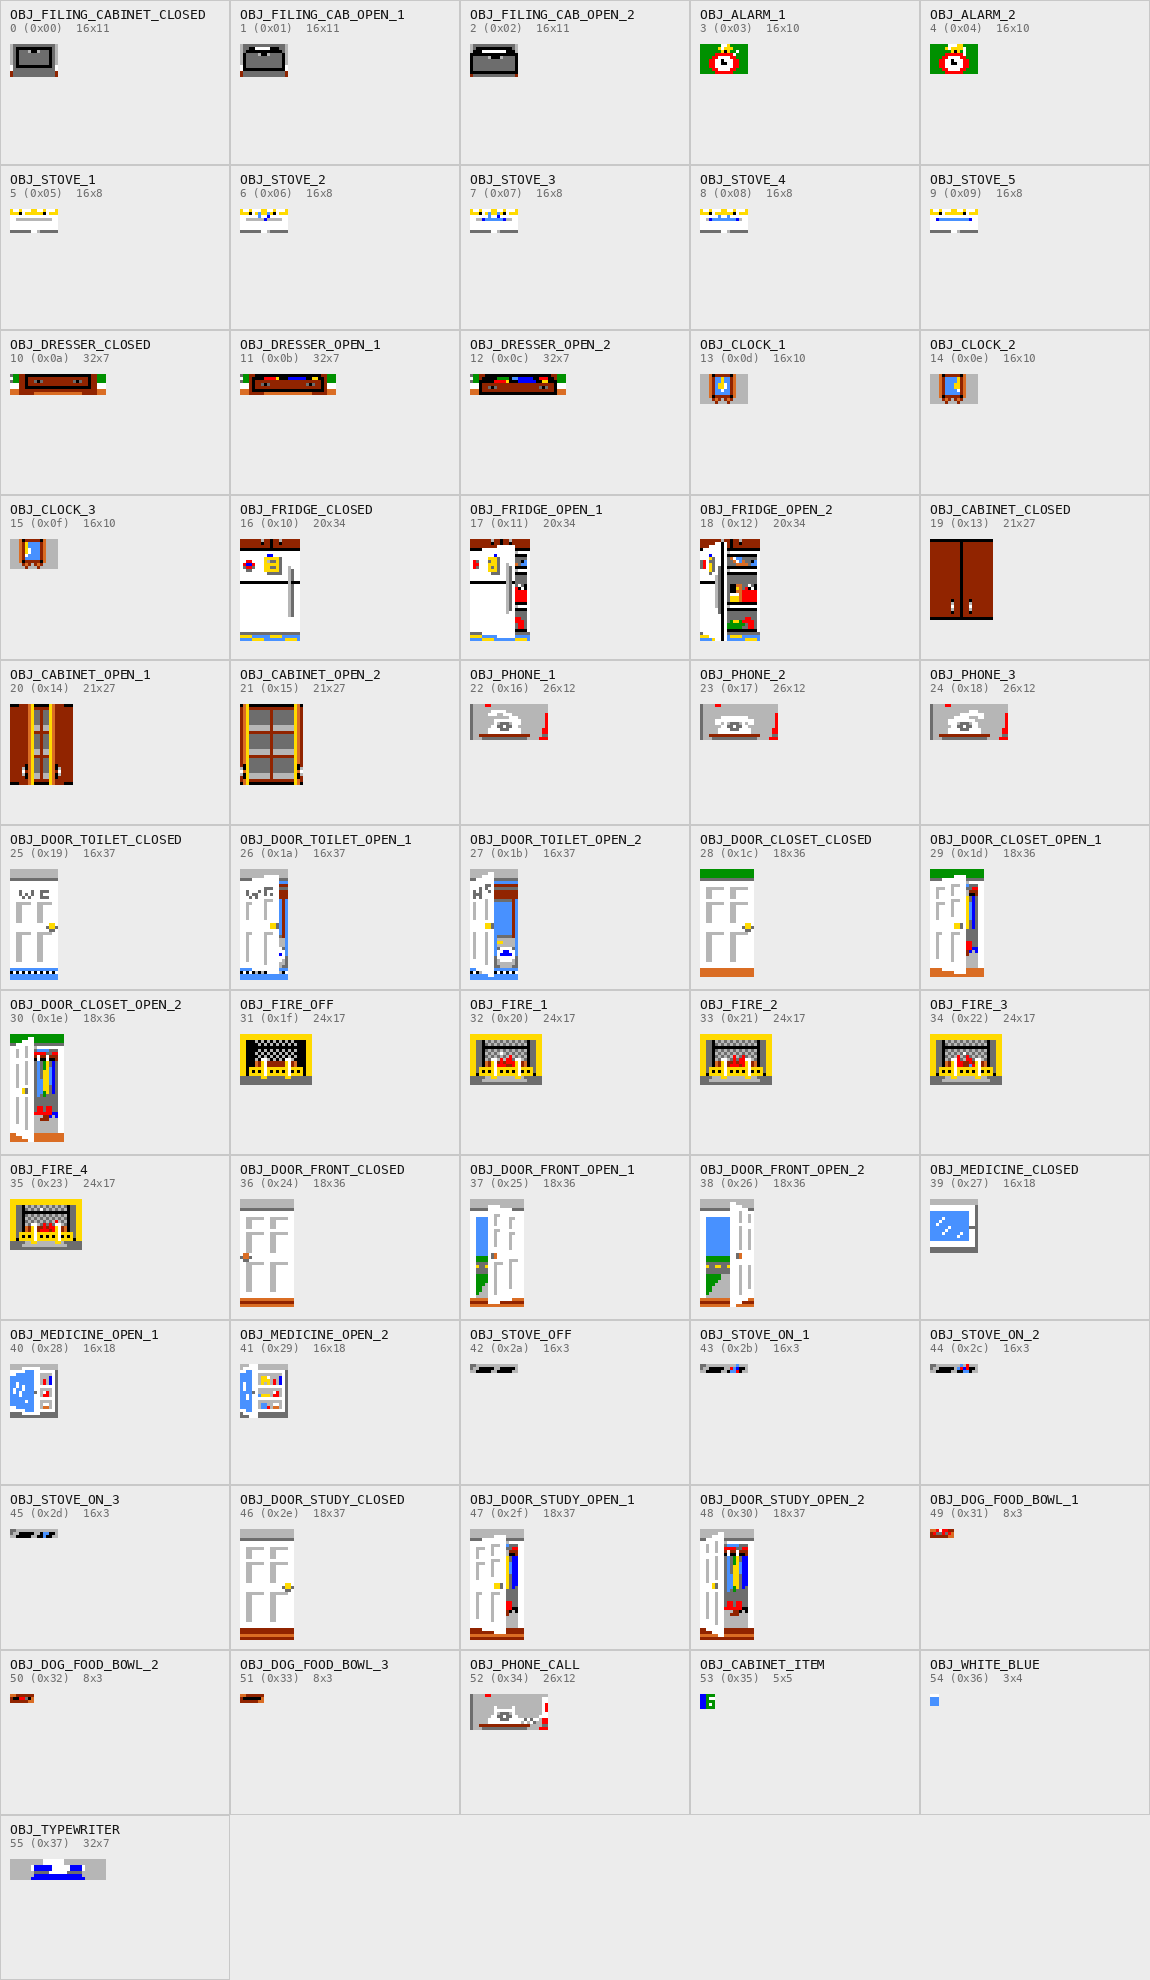
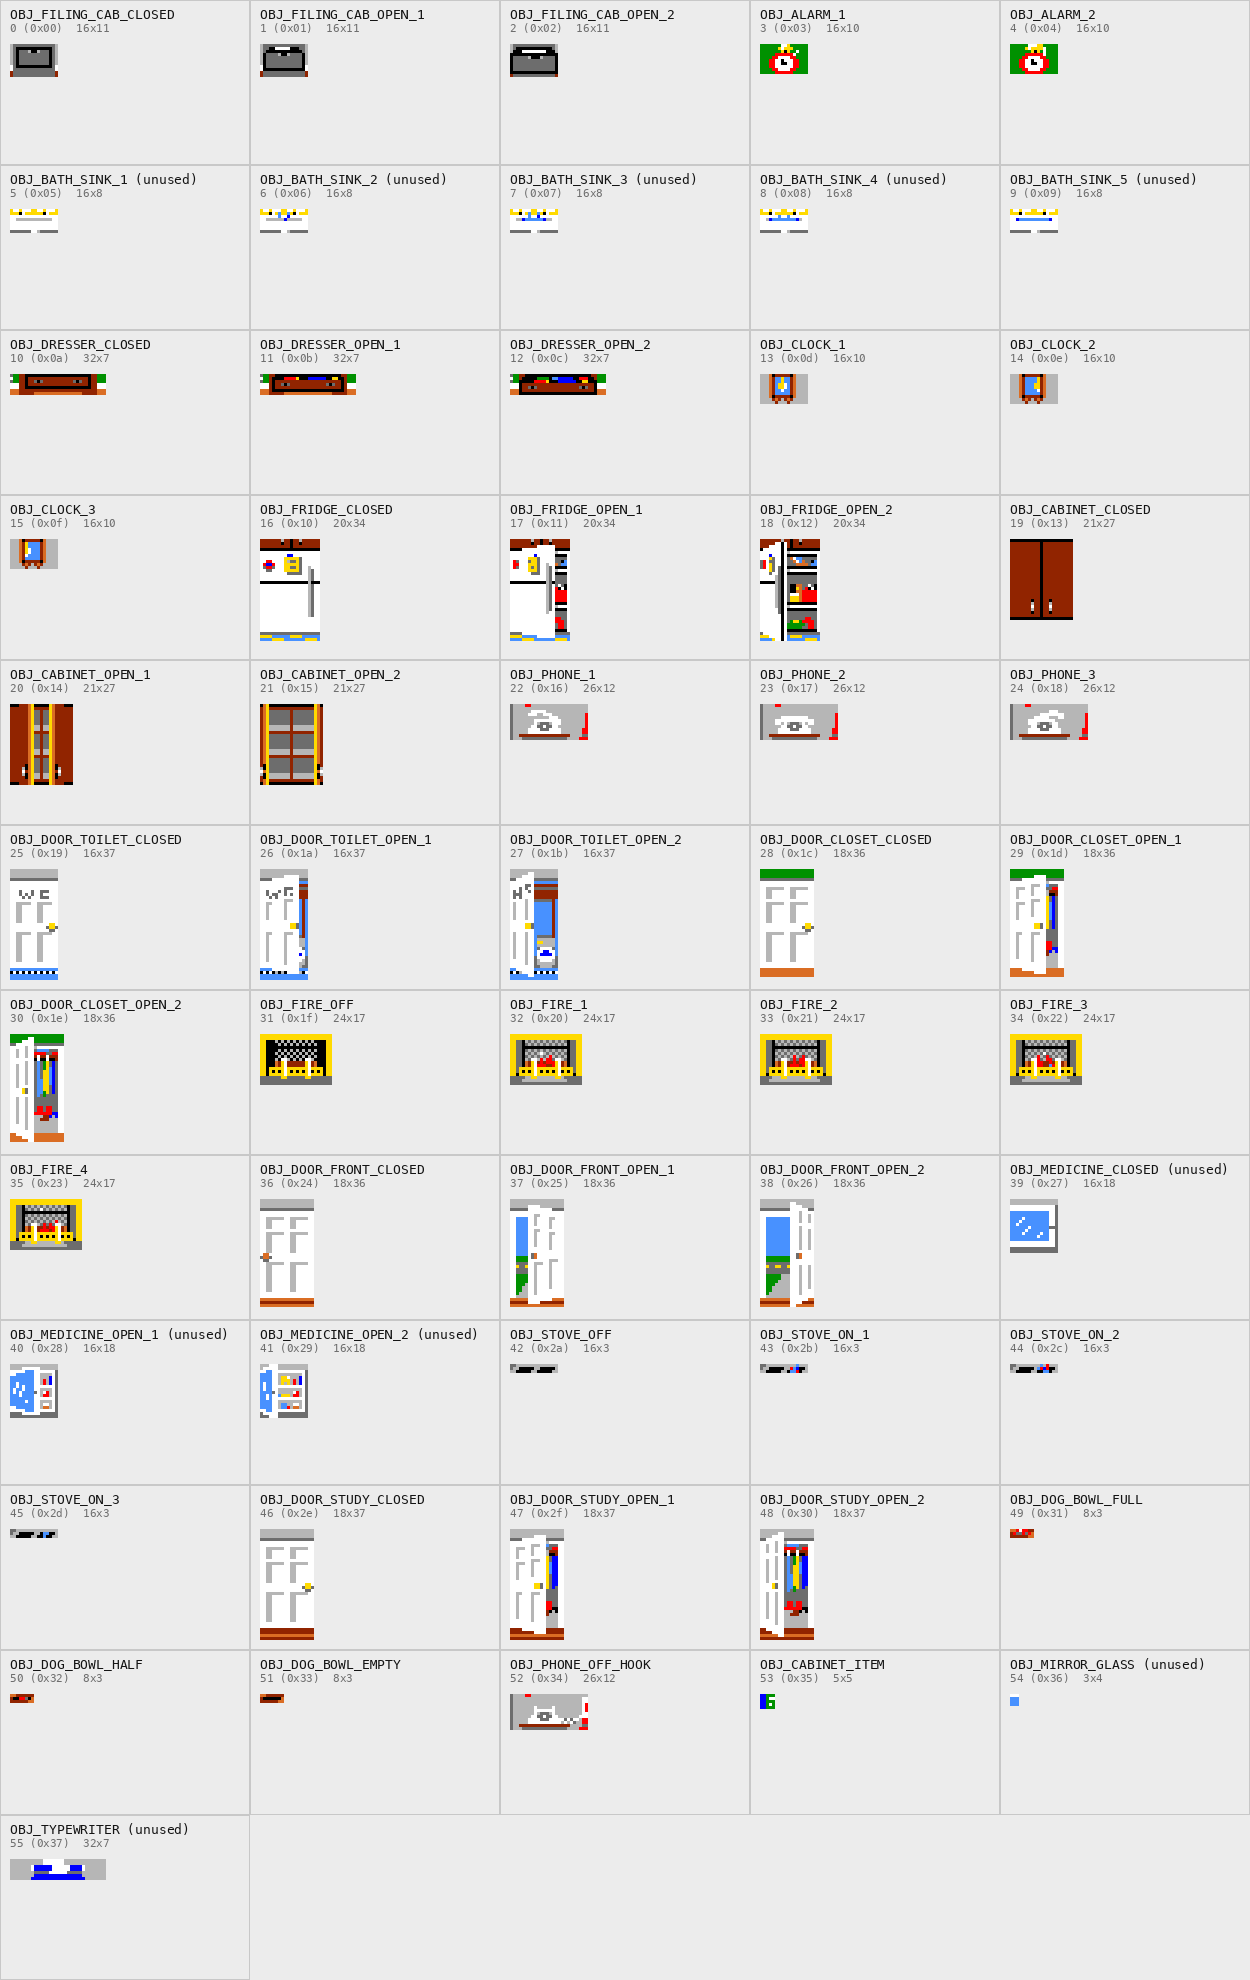
Objects: names from the code and the house picture; named positions
- OBJ_DOG_BOWL_FULL/HALF/EMPTY (drawn for those BOWL_* levels),
  OBJ_FILING_CAB_CLOSED, OBJ_PHONE_OFF_HOOK.
- The ten never-drawn objects matched against HOUSE.SCN: 5..9 are the
  bathroom sink (OBJ_BATH_SINK_1..5, not a stove), 39..41 the medicine
  cabinet, 54 a patch of its mirror (OBJ_MIRROR_GLASS), 55 the
  typewriter; all marked unused, and so on the sheets.
- CLOCK_X/Y and ALARM_X/Y; the cabinet markers relative to
  KITCHEN_CAB_X/Y; the toilet-door sprites at TOILET_DOOR_X/Y.

Byte-identical.

diff --git a/source/include/enums.h b/source/include/enums.h
@@ -382,19 +382,21 @@
 #define SPRITE_COOKED_MEAL      0x37    /* carried from the stove after cooking */
 
 /* ---- Object frames: indices into the OBJECTS table for drawObject() ------
-   The fixed compile-time indices passed as the first argument to
-   drawObject().  cp68's 22-char macro-name limit forces the short OBJ_
-   prefix. */
-#define OBJ_FILING_CABINET_CLOSED       0
+   Each frame is drawn opaque at its piece's spot (the furniture positions
+   below).  Frames marked unused are never drawn; the spot given is where
+   HOUSE.SCN already shows them -- the bathroom sink, the medicine cabinet
+   and a patch of its mirror, and the typewriter (drawn as
+   SPRITE_TYPEWRITER while he writes). */
+#define OBJ_FILING_CAB_CLOSED           0
 #define OBJ_FILING_CAB_OPEN_1           1
 #define OBJ_FILING_CAB_OPEN_2           2
 #define OBJ_ALARM_1                     3
 #define OBJ_ALARM_2                     4
-#define OBJ_STOVE_1                     5
-#define OBJ_STOVE_2                     6
-#define OBJ_STOVE_3                     7
-#define OBJ_STOVE_4                     8
-#define OBJ_STOVE_5                     9
+#define OBJ_BATH_SINK_1                 5    /* unused; at (167, 108) */
+#define OBJ_BATH_SINK_2                 6    /* unused */
+#define OBJ_BATH_SINK_3                 7    /* unused */
+#define OBJ_BATH_SINK_4                 8    /* unused */
+#define OBJ_BATH_SINK_5                 9    /* unused */
 #define OBJ_DRESSER_CLOSED              10
 #define OBJ_DRESSER_OPEN_1              11
 #define OBJ_DRESSER_OPEN_2              12
@@ -424,9 +426,9 @@
 #define OBJ_DOOR_FRONT_CLOSED           36
 #define OBJ_DOOR_FRONT_OPEN_1           37
 #define OBJ_DOOR_FRONT_OPEN_2           38
-#define OBJ_MEDICINE_CLOSED             39
-#define OBJ_MEDICINE_OPEN_1             40
-#define OBJ_MEDICINE_OPEN_2             41
+#define OBJ_MEDICINE_CLOSED             39   /* unused; at (169, 85) */
+#define OBJ_MEDICINE_OPEN_1             40   /* unused */
+#define OBJ_MEDICINE_OPEN_2             41   /* unused */
 #define OBJ_STOVE_OFF                   42
 #define OBJ_STOVE_ON_1                  43
 #define OBJ_STOVE_ON_2                  44
@@ -434,13 +436,13 @@
 #define OBJ_DOOR_STUDY_CLOSED           46
 #define OBJ_DOOR_STUDY_OPEN_1           47
 #define OBJ_DOOR_STUDY_OPEN_2           48
-#define OBJ_DOG_FOOD_BOWL_1             49
-#define OBJ_DOG_FOOD_BOWL_2             50
-#define OBJ_DOG_FOOD_BOWL_3             51
-#define OBJ_PHONE_CALL                  52
-#define OBJ_CABINET_ITEM                53   /* food-pip in open kitchen cabinet */
-#define OBJ_WHITE_BLUE                  54
-#define OBJ_TYPEWRITER                  55
+#define OBJ_DOG_BOWL_FULL               49
+#define OBJ_DOG_BOWL_HALF               50
+#define OBJ_DOG_BOWL_EMPTY              51
+#define OBJ_PHONE_OFF_HOOK              52
+#define OBJ_CABINET_ITEM                53   /* a food marker in the open kitchen cabinet */
+#define OBJ_MIRROR_GLASS                54   /* unused; at (169, 88) */
+#define OBJ_TYPEWRITER                  55   /* unused; at (208, 44) */
 
 /* ---- Minigame key menu -----------------------------------------------
    The card games list their function-key choices in a panel on the
@@ -496,6 +498,10 @@
 #define STOVE_Y         172
 #define STUDY_DOOR_X    178
 #define STUDY_DOOR_Y    23
+#define CLOCK_X         271     /* the pendulum clock, computer corner */
+#define CLOCK_Y         92
+#define ALARM_X         53      /* the alarm clock, bedroom */
+#define ALARM_Y         102
 #define TOILET_DOOR_X   187
 #define TOILET_DOOR_Y   87
 

diff --git a/source/parts/useToilet.c b/source/parts/useToilet.c
@@ -41,8 +41,8 @@ useToilet()
         resFacing = FACING_RIGHT;
         spriteLayer[SPRITE_WC_DOOR_3] = SPRITE_IN_FRONT;
         activateSprite(SPRITE_WC_DOOR_3);
-        pendX[spriteSlot[SPRITE_WC_DOOR_3]] = 187;
-        pendY[spriteSlot[SPRITE_WC_DOOR_3]] = 87;
+        pendX[spriteSlot[SPRITE_WC_DOOR_3]] = TOILET_DOOR_X;
+        pendY[spriteSlot[SPRITE_WC_DOOR_3]] = TOILET_DOOR_Y;
 
         posToXY(POS_MID_TOILET_DOOR, &walkXTarget, &walkYTarget);
         walkYTarget -= 3;
@@ -56,8 +56,8 @@ useToilet()
         layoutSlots();
         spriteLayer[SPRITE_WC_DOOR_2] = SPRITE_IN_FRONT;
         activateSprite(SPRITE_WC_DOOR_2);
-        pendX[spriteSlot[SPRITE_WC_DOOR_2]] = 187;
-        pendY[spriteSlot[SPRITE_WC_DOOR_2]] = 87;
+        pendX[spriteSlot[SPRITE_WC_DOOR_2]] = TOILET_DOOR_X;
+        pendY[spriteSlot[SPRITE_WC_DOOR_2]] = TOILET_DOOR_Y;
         drawObject(OBJ_DOOR_TOILET_OPEN_1, TOILET_DOOR_X, TOILET_DOOR_Y);
         gameTick(1);
 
@@ -65,8 +65,8 @@ useToilet()
         layoutSlots();
         spriteLayer[SPRITE_WC_DOOR_1] = SPRITE_IN_FRONT;
         activateSprite(SPRITE_WC_DOOR_1);
-        pendX[spriteSlot[SPRITE_WC_DOOR_1]] = 187;
-        pendY[spriteSlot[SPRITE_WC_DOOR_1]] = 87;
+        pendX[spriteSlot[SPRITE_WC_DOOR_1]] = TOILET_DOOR_X;
+        pendY[spriteSlot[SPRITE_WC_DOOR_1]] = TOILET_DOOR_Y;
         drawObject(OBJ_DOOR_TOILET_CLOSED, TOILET_DOOR_X, TOILET_DOOR_Y);
         hideResident();
         sfxSelect(SFX_DOOR_CLOSE, 6L);
@@ -82,8 +82,8 @@ useToilet()
         spriteLayer[SPRITE_WC_DOOR_2] = SPRITE_IN_FRONT;
         activateSprite(SPRITE_WC_DOOR_2);
         showResident();
-        pendX[spriteSlot[SPRITE_WC_DOOR_2]] = 187;
-        pendY[spriteSlot[SPRITE_WC_DOOR_2]] = 87;
+        pendX[spriteSlot[SPRITE_WC_DOOR_2]] = TOILET_DOOR_X;
+        pendY[spriteSlot[SPRITE_WC_DOOR_2]] = TOILET_DOOR_Y;
         drawObject(OBJ_DOOR_TOILET_OPEN_1, TOILET_DOOR_X, TOILET_DOOR_Y);
         sfxSelect(SFX_DOOR_OPEN, 6L);
         gameTick(1);
@@ -92,8 +92,8 @@ useToilet()
         layoutSlots();
         spriteLayer[SPRITE_WC_DOOR_3] = SPRITE_IN_FRONT;
         activateSprite(SPRITE_WC_DOOR_3);
-        pendX[spriteSlot[SPRITE_WC_DOOR_3]] = 187;
-        pendY[spriteSlot[SPRITE_WC_DOOR_3]] = 87;
+        pendX[spriteSlot[SPRITE_WC_DOOR_3]] = TOILET_DOOR_X;
+        pendY[spriteSlot[SPRITE_WC_DOOR_3]] = TOILET_DOOR_Y;
         drawObject(OBJ_DOOR_TOILET_OPEN_2, TOILET_DOOR_X, TOILET_DOOR_Y);
         gameTick(1);
         toiletDoorOpen = YES;

diff --git a/source/tools/spritesheet.py b/source/tools/spritesheet.py
@@ -2,7 +2,8 @@
 """spritesheet.py -- render DATA/SPRITES and DATA/OBJECTS as labelled sheets.
 
 Each graphic is drawn with the game's start-up palette (mainPalette in
-dat_world.c) under its id and its name from include/enums.h:
+dat_world.c) under its id and its name from include/enums.h, marked
+"(unused)" where the define's comment says so:
 
   sprites  the 50 graphics in SPRITES, under the id spriteFileId assigns
            and their SPRITE_* name.  Colour 0 is transparent (makeMask
@@ -62,8 +63,8 @@ def palette():
 def names(prefix):
     out = {}
     enums = open(os.path.join(SRC, 'include', 'enums.h')).read()
-    for name, val in re.findall(r'#define\s+(' + prefix + r'\w+)\s+(0x[0-9a-fA-F]+|\d+)\b', enums):
-        out.setdefault(int(val, 0), []).append(name)
+    for name, val, rest in re.findall(r'#define\s+(' + prefix + r'\w+)\s+(0x[0-9a-fA-F]+|\d+)\b(.*)', enums):
+        out.setdefault(int(val, 0), []).append(name + (' (unused)' if 'unused' in rest else ''))
     return out
 
 
@@ -92,7 +93,7 @@ def read_records(path, count, pal, transparent):
 
 def render(entries, label_of, out):
     """entries: list of (id, w, h, image), sorted by id."""
-    cell_w = max(max(img.width for _, _, _, img in entries) * SCALE + 2 * PAD, 230)
+    cell_w = max(max(img.width for _, _, _, img in entries) * SCALE + 2 * PAD, 250)
     cell_h = max(img.height for _, _, _, img in entries) * SCALE + 2 * PAD + LABEL_H
     rows = (len(entries) + COLS - 1) // COLS
     sheet = Image.new('RGB', (COLS * cell_w, rows * cell_h), (236, 236, 236))

diff --git a/source/render.c b/source/render.c
@@ -40,7 +40,8 @@ short   y;
 
 /* Paint food-count markers in 4 cabinet slots.
    Count = bits 9..11 of doorStatesAndFlags (0..4 packs). No-op if closed.
-     1 -> (50,159)  2 -> (58,159)  3 -> (50,151)  4 -> (58,151) */
+   The markers fill the open cabinet's shelves bottom row first, left
+   before right. */
 
 void
 drawFoodCab()
@@ -53,8 +54,12 @@ drawFoodCab()
         cabinetContent = (resident.doorStatesAndFlags >> DSF_FOOD_SHIFT) & DSF_FOOD_FIELD;
         drawObject(OBJ_CABINET_OPEN_2, KITCHEN_CAB_X, KITCHEN_CAB_Y);
 
-        if (cabinetContent >= 1) drawObject(OBJ_CABINET_ITEM, 50, 159);
-        if (cabinetContent >= 2) drawObject(OBJ_CABINET_ITEM, 58, 159);
-        if (cabinetContent >= 3) drawObject(OBJ_CABINET_ITEM, 50, 151);
-        if (cabinetContent >= 4) drawObject(OBJ_CABINET_ITEM, 58, 151);
+        if (cabinetContent >= 1) drawObject(OBJ_CABINET_ITEM,
+                        KITCHEN_CAB_X + 4, KITCHEN_CAB_Y + 19);
+        if (cabinetContent >= 2) drawObject(OBJ_CABINET_ITEM,
+                        KITCHEN_CAB_X + 12, KITCHEN_CAB_Y + 19);
+        if (cabinetContent >= 3) drawObject(OBJ_CABINET_ITEM,
+                        KITCHEN_CAB_X + 4, KITCHEN_CAB_Y + 11);
+        if (cabinetContent >= 4) drawObject(OBJ_CABINET_ITEM,
+                        KITCHEN_CAB_X + 12, KITCHEN_CAB_Y + 11);
 }

diff --git a/source/parts/main.c b/source/parts/main.c
@@ -190,16 +190,16 @@ char ** argv;
         if (filingCabOpen != NO)
                 drawObject(OBJ_FILING_CAB_OPEN_2, FILING_CAB_X, FILING_CAB_Y);
         else
-                drawObject(OBJ_FILING_CABINET_CLOSED, FILING_CAB_X, FILING_CAB_Y);
+                drawObject(OBJ_FILING_CAB_CLOSED, FILING_CAB_X, FILING_CAB_Y);
 
         /* Dog bowl: three explicit state tests with literal frame
            ids, not an index into bowlFrames. */
         if (bowlLevel == BOWL_EMPTY)
-                drawObject(OBJ_DOG_FOOD_BOWL_3, DOG_BOWL_X, DOG_BOWL_Y);
+                drawObject(OBJ_DOG_BOWL_EMPTY, DOG_BOWL_X, DOG_BOWL_Y);
         if (bowlLevel == BOWL_HALF)
-                drawObject(OBJ_DOG_FOOD_BOWL_2, DOG_BOWL_X, DOG_BOWL_Y);
+                drawObject(OBJ_DOG_BOWL_HALF, DOG_BOWL_X, DOG_BOWL_Y);
         if (bowlLevel == BOWL_FULL)
-                drawObject(OBJ_DOG_FOOD_BOWL_1, DOG_BOWL_X, DOG_BOWL_Y);
+                drawObject(OBJ_DOG_BOWL_FULL, DOG_BOWL_X, DOG_BOWL_Y);
 
         drawFoodCab();
         resetDailyFlags();

diff --git a/source/tick.c b/source/tick.c
@@ -93,7 +93,7 @@ short   counter;
 
                         /* Clock pendulum: 4-frame animation. */
                         psi = (tickCount >> 2) & 3;
-                        drawObject(clockFrames[psi], 271, 92);
+                        drawObject(clockFrames[psi], CLOCK_X, CLOCK_Y);
                         simStep();
                         redrawHands();
 
@@ -162,7 +162,7 @@ short   counter;
                                         sfxSelect(SFX_ALARM_CLOCK, 100000L);
                                 }
                                 drawObject(alarmFrames[tickCount & 1],
-                                        53, 102);
+                                        ALARM_X, ALARM_Y);
                         }
                         if (alarmRinging == NO) {
                                 alarmSounding = NO;

diff --git a/source/dat_anim.c b/source/dat_anim.c
@@ -195,6 +195,6 @@ short   patSprites[PAT_FRAMES] = {
 short   patLastSprite = SPRITE_PET_HAND_1;
 
 /* Dog bowl object per bowlLevel (BOWL_EMPTY, BOWL_HALF, BOWL_FULL). */
-short   bowlFrames[3] = { OBJ_DOG_FOOD_BOWL_3,
-                          OBJ_DOG_FOOD_BOWL_2,
-                          OBJ_DOG_FOOD_BOWL_1 };
+short   bowlFrames[3] = { OBJ_DOG_BOWL_EMPTY,
+                          OBJ_DOG_BOWL_HALF,
+                          OBJ_DOG_BOWL_FULL };

diff --git a/source/parts/closeFilingCab.c b/source/parts/closeFilingCab.c
@@ -11,7 +11,7 @@ closeFilingCab()
         drawObject(OBJ_FILING_CAB_OPEN_1, FILING_CAB_X, FILING_CAB_Y);
         gameTick(1);
         animState = STATE_BEND_DOWN;
-        drawObject(OBJ_FILING_CABINET_CLOSED, FILING_CAB_X, FILING_CAB_Y);
+        drawObject(OBJ_FILING_CAB_CLOSED, FILING_CAB_X, FILING_CAB_Y);
         gameTick(1);
         filingCabOpen = NO;
         animState = STATE_STAND_FACING_SCREEN;

diff --git a/source/parts/answerPhone.c b/source/parts/answerPhone.c
@@ -29,7 +29,7 @@ answerPhone()
         phoneRinging = NO;
         phoneHangUp = YES;
         gameTick(0);
-        drawObject(OBJ_PHONE_CALL, PHONE_X, PHONE_Y);
+        drawObject(OBJ_PHONE_OFF_HOOK, PHONE_X, PHONE_Y);
 
         animState = STATE_PHONE_TALKING;
         gameTick(1);

diff --git a/docs/RENDERING.md b/docs/RENDERING.md
@@ -44,7 +44,12 @@ house that changes is painted into that picture rather than drawn each frame:
 At start-up `main` paints every door and cabinet in its saved state.  Once
 painted, an object stays until something paints over it.
 
-All 56 objects, under their `OBJ_*` names (drawn opaque, colour 0 included):
+All 56 objects, under their `OBJ_*` names (drawn opaque, colour 0 included).
+Ten are never drawn: five frames of the bathroom sink (`OBJ_BATH_SINK_1..5`),
+the bathroom's medicine cabinet opening (`OBJ_MEDICINE_*`), a patch of its
+mirror and the typewriter on the writing desk.  Their first frames match
+`HOUSE.SCN` at the spots `enums.h` gives, so they were cut from the same
+picture for animations the game does not have.
 
 ![The 56 objects](images/objects.png)
 
